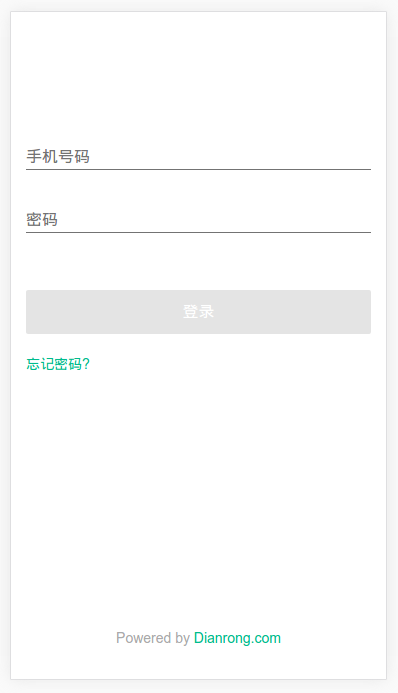
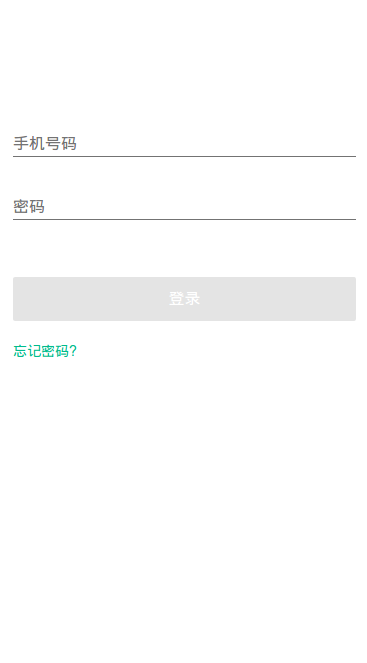
Update REAMDE

diff --git a/config/options.js b/config/options.js
@@ -1,4 +1,3 @@
-var heroCliConfig = require('./hero-config.json');
 var options = [
     {
         name: 'e',
@@ -43,12 +42,6 @@ var options = [
         value: {
             // demandOption: false,
             describe: 'Rename file without hashcode. Default value is [false], cause filename with hashcode.'
-        }
-    }, {
-        name: 'c',
-        value: {
-            // demandOption: false,
-            describe: 'The path of webpack config file used to build.'
         }
     }
 ];

diff --git a/README.md b/README.md
@@ -1,4 +1,4 @@
-# Hero-cli
+# hero-cli
 
 Create Hero apps with no build configuration.
 
@@ -22,16 +22,15 @@ npm install
 Once the installation is done, you can run some commands inside the project folder:
 
 * `npm start` Start the application.
-* `npm run mock` You can start the mock server during the development.
 * `npm run build` When you’re ready to deploy to production, create a minified bundle with this command.
 
-Run `npm start` and then open [http://localhost:3000/?state=http://localhost:3000/entry/login.html](http://localhost:3000/?state=http://localhost:3000/entry/login.html) to see your app.<br>
+Run `npm start` and then open [http://localhost:3000/?state=http://localhost:3000/pages/login.html](http://localhost:3000/?state=http://localhost:3000/pages/login.html) to see your app.<br>
 
-<img src='https://github.com/hero-mobile/hero-cli/blob/master/images/readme/start-homepage.png?raw=true' width='375' height='667' alt='npm start'>
+<img src='https://github.com/hero-mobile/hero-cli/blob/master/images/readme/start-homepage.png?raw=true' width='367' height='663' alt='npm start'>
 
 ### Get Started Immediately
 
-Hero-cli using [Webpack](http://webpack.github.io/) to build the boudle for deployment while you don't need to install or configure them.<br>
+hero-cli using [Webpack](http://webpack.github.io/) to build the boudle for deployment while you don't need to install or configure them.<br>
 They are preconfigured and hidden so that you can focus on the code. Just create a project, and you’re good to go.
 
 ## Getting Started
@@ -61,8 +60,6 @@ It will create a directory called `my-app` inside the current folder.<br>
 Inside that directory, it will generate the initial project structure and then you can run command `npm install` to install the dependencies manually:
 
 ```
-├── mock/
-│   └── ...
 ├── public
 │   ├── ...
 │   └── favicon.ico
@@ -73,7 +70,9 @@ Inside that directory, it will generate the initial project structure and then y
 │   │   └── environment-prod.js
 │   ├── index.html
 │   └── index.js
+├── .babelrc
 ├── .editorconfig
+├── .eslintrc
 ├── .gitattributes
 ├── .gitignore
 ├── .hero-cli.json
@@ -88,12 +87,11 @@ For the project to build, **these files must exist with exact filenames**:
 
 You can delete or rename the other files.
 
-* `mock` you can put your mock data here, which is convenient for you during development. See [Usage Here](https://github.com/hero-mobile/hero-cli/tree/master/template/mock).
 * `public` assets like images inside this folder will **copied into the build folder untouched**. It will not be processed by Webpack.
 * `src` For faster rebuilds, only files inside this folder are processed by Webpack. You need to **put any JS and CSS files inside this folder**, or Webpack won’t see them.
-* `src/environments` where your configurations exists(this is configured in file `.hero-cli.json`, you can change it later) and access the configuration in JavaScript or HTML code. See [Adding Custom Environment Variables](#adding-custom-environment-variables).
+* `src/environments` where your configurations exists(these file path configured in file `.hero-cli.json`, you can change it later) and you can access the configuration values in JavaScript or HTML code. See [Adding Custom Environment Variables](#adding-custom-environment-variables).
 
-You may curious about where is the `entry/login.html`. Yes, it's generated by Hero-cli. See [Generate HTML](#generate-html)
+You may curious about where is the `pages/login.html`. Yes, it's generated by hero-cli. See [Generate HTML](#generate-html)
 
 ## User Guide
 
@@ -102,10 +100,11 @@ You may curious about where is the `entry/login.html`. Yes, it's generated by He
   * [Referencing Environment Variables in the JavaScript](#referencing-environment-variables-in-the-javascript)
   * [Referencing Environment Variables in the HTML](#referencing-environment-variables-in-the-html)
   * [Adding Temporary Environment Variables In Your Shell](#adding-temporary-environment-variables-in-your-shell)
-  * [Adding Development Environment Variables via `.hero-cli.json`](#adding-development-environment-variables-via-.hero-cli.json)
+  * [Adding Development Environment Variables via `.hero-cli.json`](#adding-development-environment-variables-via-hero-clijson)
+* [Proxying API Requests in Development](#proxying-api-requests-in-development)
 * [Build Scripts](#build-scripts)
   * [`hero start`](#hero-start)
-  * [`hero start`](#hero-build)
+  * [`hero build`](#hero-build)
 
 ### Generate HTML
 
@@ -117,36 +116,31 @@ Any JS file meet the following 2 conditions will treat as JavaScript entry point
 Which would cause a HTML file generated using Webpack plugin [html-webpack-plugin](https://www.npmjs.com/package/html-webpack-plugin):
 
 * Options specified in `@Entry(options)` will passed to `html-webpack-plugin` transparently.
-* Destination of generated HTML file will keep the file path structure of the Javascript entry, or you can override it using the options provided by `html-webpack-plugin`.
-* Generated HTML file can access the [Adding Custom Environment Variables](#adding-custom-environment-variables).
+* Destination of generated HTML file will keep the file path structure of the Javascript entry, or you can override it using the option `filename` provided by `html-webpack-plugin`.
+* Generated HTML file can access the [Custom Environment Variables](#adding-custom-environment-variables).
 
 Example:<br>
-Below JS will generate a HTML file at `<build>/entry/login.html`, that's why we can visit [http://localhost:3000/entry/login.html](http://localhost:3000/entry/login.html).
+
+Below JavaScript file `src/pages/login.js` will generate a HTML file access by URL `/pages/login.html`, that's why we can visit [http://localhost:3000/pages/login.html](http://localhost:3000/pages/login.html).
 
 ```javascript
-// content of file: src/entry/login.js
+// content of file: src/pages/login.js
 import { Entry } from 'hero-cli/decorator';
-import { Component, Boot, Message } from 'hero-js';
 
-var defaultUIViews = {
-
-}
 // class marked by @Entry
+// will generate HTML accessed by URL /pages/login.html
+// Equal to
+// @Entry({
+//   filename: 'pages/login.html'
+// })
+//
 @Entry()
-@Component({
-  view: defaultUIViews
-})
 export class DecoratePage {
 
-    @Boot
-    bootstrap(data){
-      console.log('Bootstrap successfully!')
+    sayHello(data){
+      console.log('Hello Hero!')
     }
 
-    @Message('__data.click && __data.click == "login"')
-    loginHandler(data) {
-      console.log('Send Login Request...')
-    }
 }
 
 ```
@@ -167,7 +161,9 @@ console.log('Send Request with Token: '+ process.env.HERO_APP_SECRET_CODE);
 
 ```
 
-There is also a special built-in environment variable called `NODE_ENV`. You can read it from `process.env.NODE_ENV`. When you run `hero start`, it is always equal to `'development'`, when you run `hero build` to make a production bundle, it is always equal to `'production'`. **You cannot override `NODE_ENV` manually**. This prevents developers from accidentally deploying a slow development build to production.<br>
+There is also exist two special built-in environment variable called `NODE_ENV` and `HOME_PAGE`. <br>
+
+You can read it from `process.env.NODE_ENV`. When you run `hero start`, it is always equal to `'development'`, when you run `hero build` to make a production bundle, it is always equal to `'production'`. **You cannot override `NODE_ENV` manually**. This prevents developers from accidentally deploying a slow development build to production.<br>
 
 Having access to the `NODE_ENV` is also useful for performing actions conditionally:
 
@@ -178,6 +174,8 @@ if (process.env.NODE_ENV !== 'production') {
 }
 
 ```
+
+You can read variable `process.env.HOME_PAGE`, which value is equal to attribute `homepage` in file `.hero-cli.json`. This is useful for [Building for Relative Paths](#building-for-relative-paths).
 
 #### Referencing Environment Variables in the HTML
 For example, let’s define a variable `HERO_APP_WEBSITE_NAME` with value `Welcome Hero`, and you can access it like this:
@@ -204,13 +202,13 @@ set HERO_APP_SECRET_CODE=abcdef&&npm start
 
 ##### Linux, macOS (Bash)
 ```
-REACT_APP_SECRET_CODE=abcdef npm start
+HERO_APP_SECRET_CODE=abcdef npm start
 
 ```
 
 #### Adding Development Environment Variables via `.hero-cli.json`
 Environment variables may varies from environments, such as `development`, `test` or `production`. <br>
-You can specify the mapping info in the `.hero-cli.json` file to tells Hero-cli loads the corresponding variables as environment variables.<br>
+You can specify the mapping info in the `.hero-cli.json` file, tell hero-cli loads the corresponding variables into environment variables.<br>
 
 For example:
 
@@ -228,8 +226,7 @@ And here is the content of `src/environments/environment-prod.js`
 
 ```javascript
 var environment = {
-    backendURL: 'http://www.my-website.com/api',
-    __homepage: 'http://www.my-website.com/relativepath'
+    backendURL: 'http://www.my-website.com/api'
 };
 
 module.exports = environment;
@@ -237,6 +234,37 @@ module.exports = environment;
 ```
 
 When you run command `hero start -e dev` or `hero build -e dev`, all variables from `src/environments/environment-dev.js` can be accessed via `process.env`.
+
+### Proxying API Requests in Development
+People often serve the front-end React app from the same host and port as their backend implementation.
+For example, a production setup might look like this after the app is deployed:
+```
+/             - static server returns index.html with React app
+/todos        - static server returns index.html with React app
+/api/todos    - server handles any /api/* requests using the backend implementation
+
+```
+
+Such setup is not required. However, if you do have a setup like this, it is convenient to write requests like `fetch('/api/v2/todos')` without worrying about redirecting them to another host or port during development.
+
+To tell the development server to proxy any unknown requests to your API server in development, add a proxy field to your `.hero-cli.json`, for example:
+
+```json
+{
+  "proxy": {
+    "/api/v2": "https://localhost:4000",
+    "/feapi": "https://localhost:4001",
+  },
+  "environments": {
+    "dev": "src/environments/environment-dev.js",
+    "prod": "src/environments/environment-prod.js"
+  }
+}
+
+```
+
+This way, when you `fetch('/api/v2/todos')` in development, the development server will proxy your request to `http://localhost:4000/api/v2/todos`, and when you `fetch('/feapi/todos')`, the request will proxy to `https://localhost:4001`.
+
 
 ### Build Scripts
 
@@ -249,16 +277,32 @@ Usage: `hero start -e <env>`
 
 The available `<env>` values come from keys configured in attribute `environments` in file `.hero-cli.json`.
 
-Hero-cli will load the corresponding configurations according to the `<env>` value by rules mentioned [above](#adding-development-environment-variables-via-`.hero-cli.json`).<br>
+hero-cli will load the corresponding configurations according to the `<env>` value by rules mentioned [above](#adding-development-environment-variables-via-hero-clijson).<br>
 
+You can using `-p` specify the listen port start the application.<br>
+
+```sh
+hero start -e dev -p 3000
+```
 When start successfully, the page will reload if you make edits in folder `src`.<br>
 You will see the build errors and lint warnings in the console.
 
 <img src='https://github.com/hero-mobile/hero-cli/blob/master/images/readme/syntax-error-terminal.png?raw=true' width='600' alt='syntax error terminal'>
 
+##### More Vaild options
+
+* `-e`<br>Environment name of the configuration when start the application
+* `-s`<br>Build the boundle as standalone version, which should run in Native App environment. That's to say, build version without libarary like [webcomponent polyfills](http://webcomponents.org/polyfills/) or [hero-js](https://github.com/hero-mobile/hero-js)(These libarary is necessary for Hero App run in web browser, not Native App).
+* `-i`<br>Inline JavaScript code into HTML. Default value is [false].
+* `-b`<br>Build pakcage only contain dependecies like hero-js or webcomponents, withou code in <you-project-path>/src folder. Default value is [false]
+* `-m`<br>Build without sourcemap. Default value is [false], will generate sourcemap.
+* `-f`<br>Generate AppCache file, default file name is "app.appcache". Default value is [false], will not generate this file.
+* `-n`<br>Rename file without hashcode. Default value is [false], cause filename with hashcode.
+
+
 #### `hero build`
 
-Builds the app for production to the `build` folder. And you can run `hero build -h` for help.<br>
+Builds the app for production to the `build` folder. Options as same as `hero start` mentioned [above](#more-vaild-options), or you can run `hero build -h` for help<br>
 The build is minified and the filenames include the hashes.<br>
 It correctly bundles Hero App in production mode and optimizes the build for the best performance.
 
@@ -267,26 +311,26 @@ Usage: `hero build -e <env>`
 
 The available `<env>` values and configurations loading rules as same as [`hero start`](#hero start) .
 
-And has another two options:
-
-* `-s`<br>Build the boundle as standalone version, which should run in Native App environment. That's to say, build version without libarary like [webcomponent polyfills](http://webcomponents.org/polyfills/) or [hero-js](https://github.com/hero-mobile/hero-js)(These libarary is necessary for Hero App run in web browser, not Native App).
-
-* `-m`<br>Build the boundle without sourcemap
-
 ##### Building for Relative Paths
-By default, Hero-cli produces a build assuming your app is hosted at the server root.
-To override this, specify the value of **preserved key `__homepage`** in your configuration file. Accept values see [Webpack#publicpath](http://webpack.github.io/docs/configuration.html#output-publicpath).
+By default, hero-cli produces a build assuming your app is hosted at the server root.
+To override this, specify the value of attribute **homepage** in configuration `.hero-cli.json` file. Accept values see [Webpack#publicpath](http://webpack.github.io/docs/configuration.html#output-publicpath).
 
 For example:
 
-Here is the content of `src/environments/environment-prod.js`
-```javascript
-
-var environment = {
-    __homepage: 'http://www.my-website.com/relativepath'
-};
-
-module.exports = environment;
+Here is the content of `.hero-cli.json`
+```json
+{
+  "environments": {
+    "dev": "src/environments/environment-dev.js",
+    "prod": "src/environments/environment-prod.js"
+  },
+  "homepage": "/mkt/"
+}
 
 ```
+Then you can access the `login.html` by URL `/mkt/pages/login.html`
+
 This will let Hero App correctly infer the root path to use in the generated HTML file.
+
+#### `hero init`
+You can run `hero build -h` for help. It will generate the initial project structure of Hero App. See [Creating an App](#creating-an-app).
